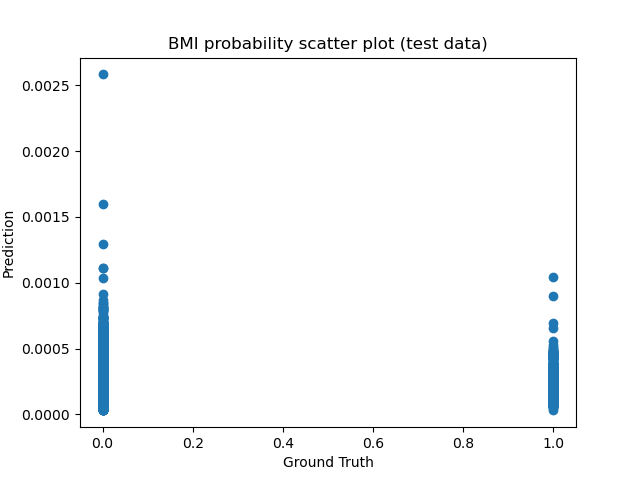
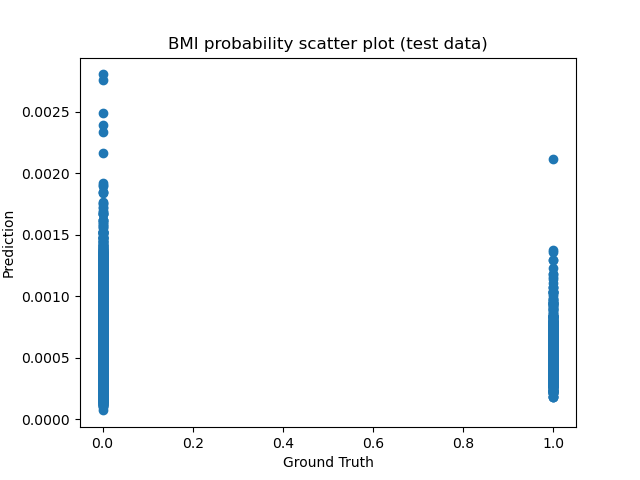
V1.5 binary_resnet_1

diff --git a/validation.py b/validation.py
@@ -56,8 +56,8 @@ def valid_model(model, path, dataset, ds_type):
     
     
 if __name__ == '__main__':
-    tag = "binary_resnet_1"
-    weight_no = 51
+    tag = "binary_entropy_3" # "binary_resnet_1"
+    weight_no = 29 # 51
     model_args = {
         'kernel_sizes':KERNEL_SIZE,
         'dimensions':DIMENSION,
@@ -66,13 +66,12 @@ if __name__ == '__main__':
     }
     
     model_path = LOG_DIR + tag
-    model = ecg2Hfpef(**model_args)
-    model.load_weights("logs/binary_resnet_1/weight_51")
-#     model = ecg_CNN()
-#     model.load_weights("./logs/binary_entropy_3/weight_29")
-#     model = tf.keras.models.load_model("./logs/binary_entropy_3/model_29")
+#     model = ecg2Hfpef(**model_args)
+    model = ecg_CNN()
+    model.load_weights(model_path + f'/weight_{weight_no}')
+#     model = tf.keras.models.load_model(model_path + f'/model_{weight_no}')
     
     train_ds, test_ds = getCritDataset(training=False)
     
     # valid_model(model_path, train_ds, 'train')
-    valid_model(model, model_path, test_ds, 'test')
+    valid_model(model, model_path, test_ds, 'test weight')
